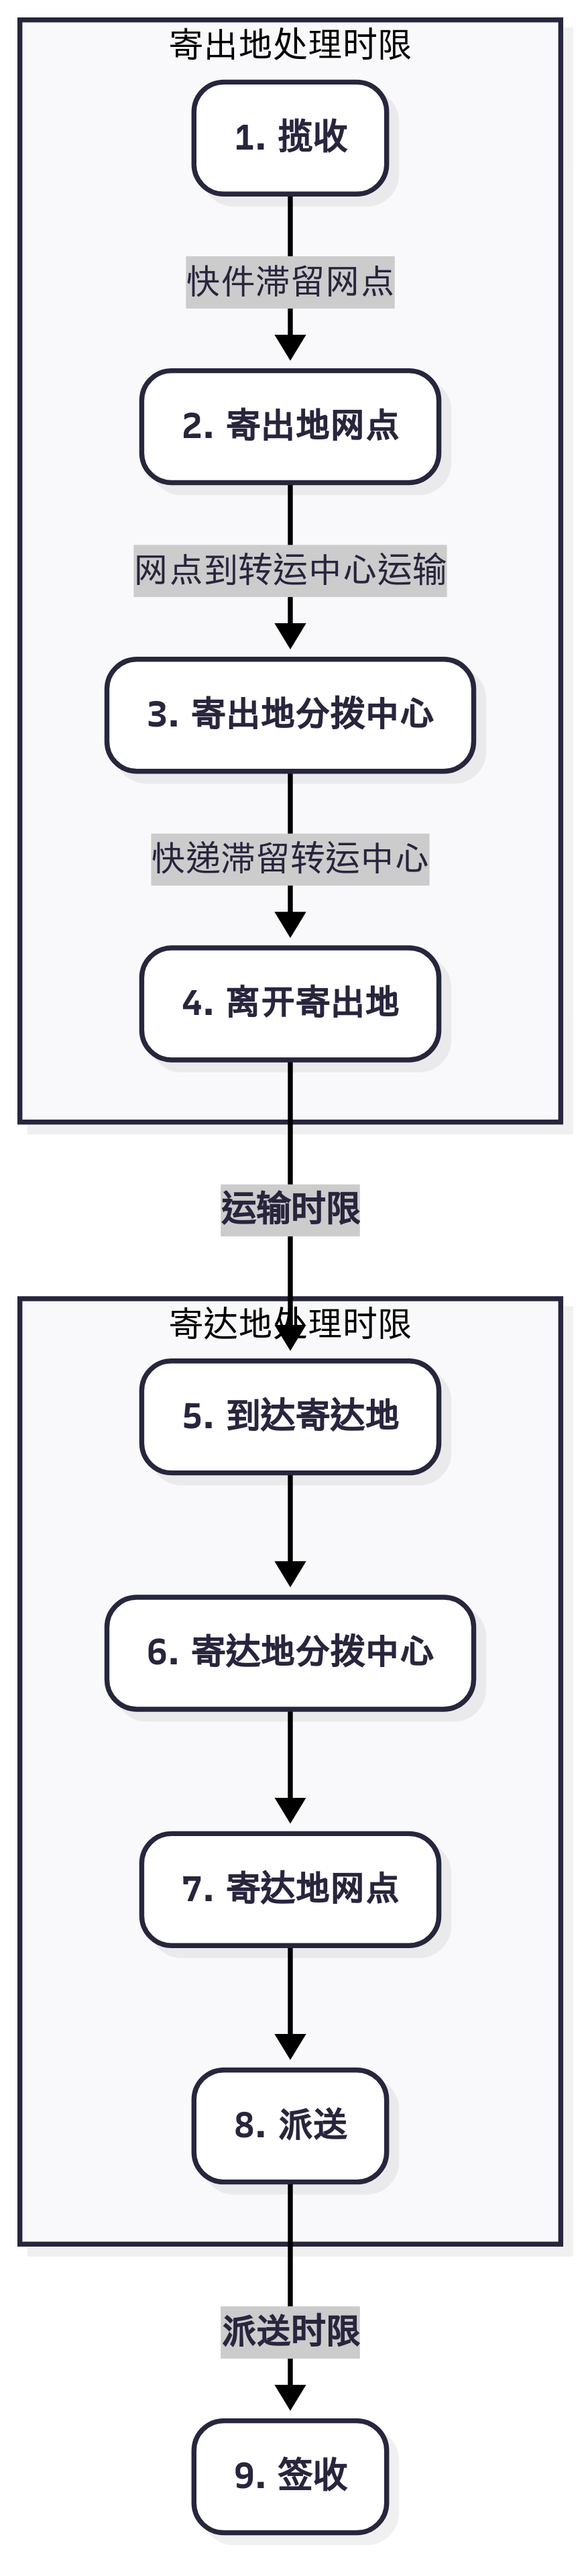
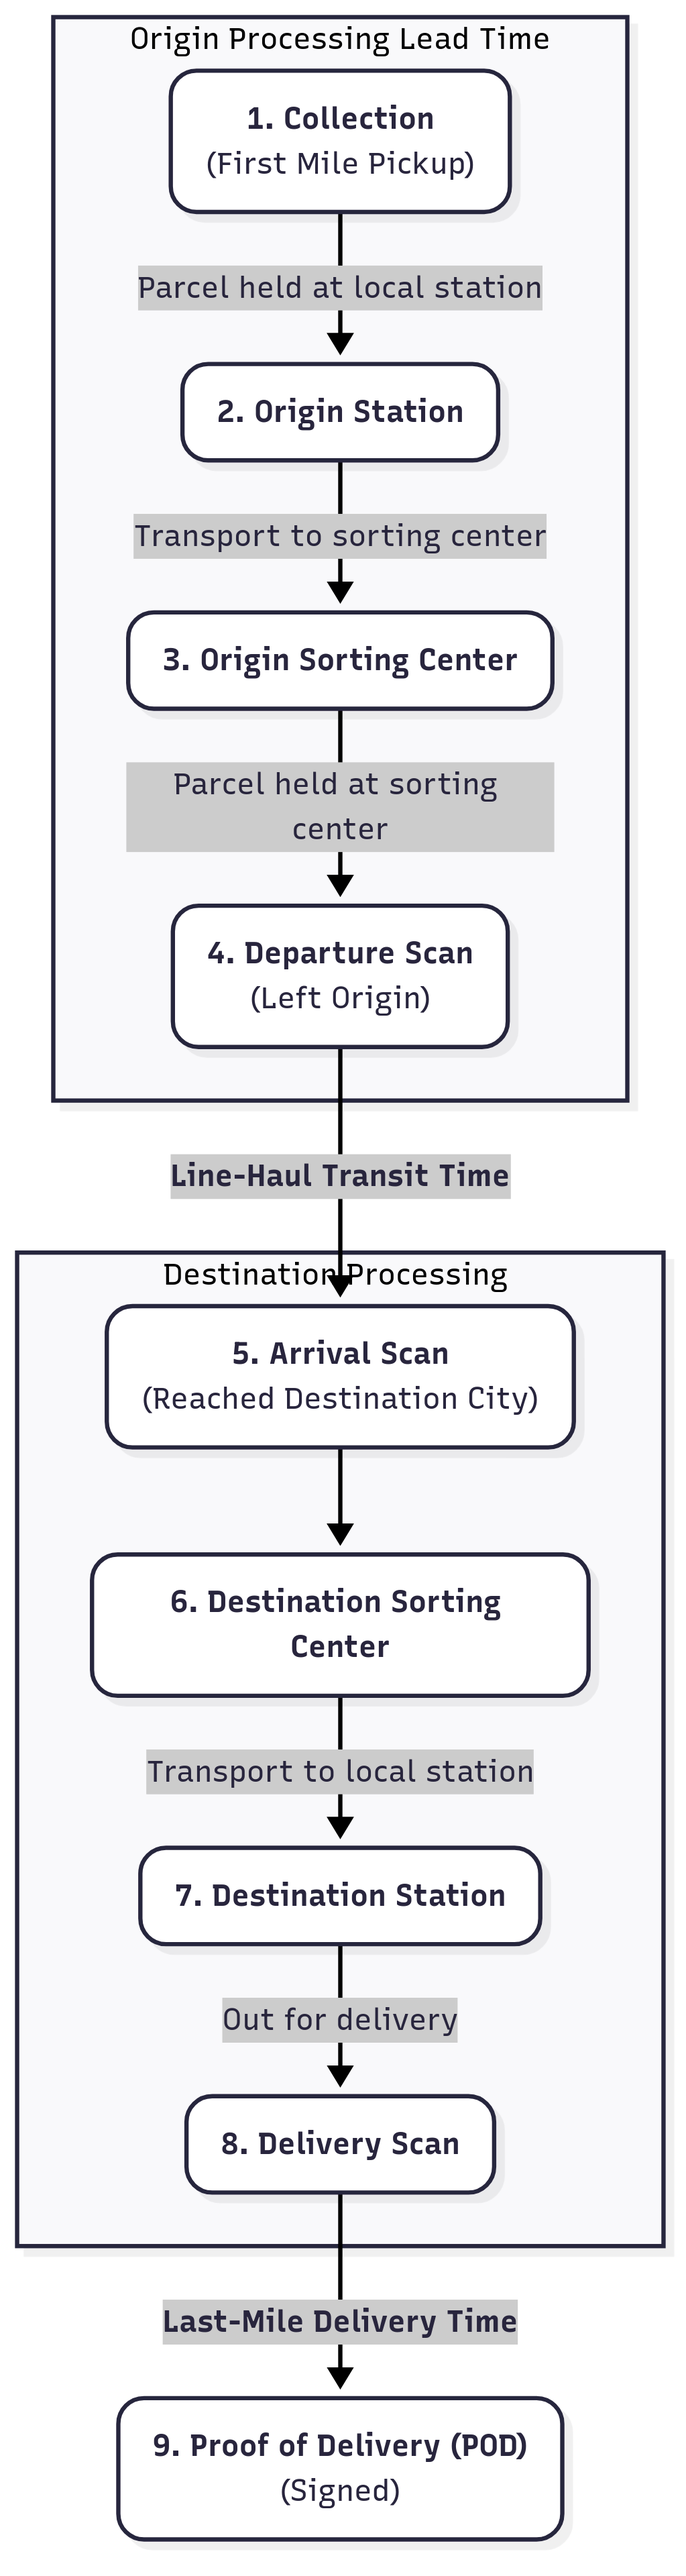
1.add description image in English and Chinese 2.update README.md

diff --git a/Description_Image/dataflow.md b/Description_Image/dataflow.md
@@ -4,29 +4,50 @@ config:
 ---
 graph TD
     %% =================================================================
-    %% 阶段一：核心数据准备
+    %% Stage 1: Core Data Preparation
     %% =================================================================
-    subgraph "阶段一：核心数据准备 (数据源 -> 核心中间数据)@zhb"
-        A["<b>安监数据</b><br><b style='color:grey'>(输入/安监数据)"] --> B("运行<b style='color:darkblue'>1_data_preprocess.ipynb Cell 2")
-        B --> C["<b>拆分后数据<br>（不含顺丰、中通）</b><br><b style='color:grey'>(temp/1_待上传猪猪云文件）"]
-        C -- "手动上传" --> D{"猪猪快递云网站"}
-        D -- "手动下载" --> E["<b>猪猪云输出数据<br>（不含顺丰、中通）</b><br> <b style='color:grey'>(放入temp/2_猪猪云下载数据"]
-        E --> F("运行<b style='color:darkblue'>1_data_preprocess.ipynb Cell 3")
-        F --> G["<b>合并数据<br>（不含顺丰、中通）</b><br><b style='color:grey'>（temp/3_猪猪云合并数据）"]
+    subgraph "Stage 1: Core Data Preparation (Raw Sources -> Intermediate Data) @zhb"
+        A["<b>Raw Monitoring Data</b><br><b style='color:grey'>(input/monitoring_data)"] --> B("Run <b style='color:darkblue'>1_data_preprocess.ipynb Cell 2")
+        B --> C["<b>Split Data<br>(Excludes SF, ZTO)</b><br><b style='color:grey'>(temp/1_to_be_uploaded）"]
+        C -- "Manual Upload" --> D{"Cloud Processing Service"}
+        D -- "Manual Download" --> E["<b>Processed Cloud Output<br>(Excludes SF, ZTO)</b><br> <b style='color:grey'>(place in temp/2_cloud_download)"]
+        E --> F("Run <b style='color:darkblue'>1_data_preprocess.ipynb Cell 3")
+        F --> G["<b>Merged Data<br>(Excludes SF, ZTO)</b><br><b style='color:grey'>(temp/3_cloud_merged)"]
 
     
-        M("运行<b style='color:darkblue'>1_data_preprocess.ipynb Cell 5 中转数据生成")
+        M("Run <b style='color:darkblue'>1_data_preprocess.ipynb Cell 5<br>Transit Data Generation")
         G --> M
-        M --> N["<b>中转数据<br>（不含顺丰、中通）</b><br><b style='color:grey'>（temp/5_中转数据）"]
+        M --> N["<b>Transit Data<br>(Excludes SF, ZTO)</b><br><b style='color:grey'>(temp/5_transit_data)"]
 
-        G -- "不含顺丰、中通" --> H{"运行<b style='color:darkblue'>1_data_preprocess.ipynb Cell 4.0-4.8 logistics生成"}
-        A -- "顺丰、中通" --> H
-        H --> I["<b>logistics数据</b><br><b style='color:grey'>（temp/4_logistics数据）"]
-        I --> K("运行<b style='color:darkblue'>1_data_preprocess.ipynb Cell 7: 核心数据计算层 <br>")
-        N -- "不含顺丰、中通" --> K
-        K --> L["<b style='color:darkred'>data_analyisi_result数据</b>"]
-        L --> O("运行<b style='color:darkblue'>2_intermediate_DataHub.ipynb Cell 4: Cell 4: 数据中台生成 <br>")
-        O --> P["<b style='color:darkred'>分析总报告.xlsx</b>"]
-        P --> Q["<b style='color:darkred'>邮政月报.xlsx、极兔月报.xlsx</b>"]
+        G -- "Excludes SF, ZTO" --> H{"Run <b style='color:darkblue'>1_data_preprocess.ipynb Cell 4.0-4.8<br>Logistics Data Generation"}
+        A -- "SF, ZTO only" --> H
+        H --> I["<b>Logistics Data</b><br><b style='color:grey'>(temp/4_logistics_data)"]
+        
+        I --> K("Run <b style='color:darkblue'>1_data_preprocess.ipynb Cell 7<br>Core Data Computation Layer")
+        N -- "Excludes SF, ZTO" --> K
+        K --> L["<b style='color:darkred'>`data_analysis_result` Outputs</b>"]
+        
+        L --> O("Run <b style='color:darkblue'>2_intermediate_DataHub.ipynb Cell 4<br>Data Hub Generation")
+        O --> P["<b style='color:darkred'>Master_Analysis_Report.xlsx</b>"]
+        
+        L --> Q["<b style='color:darkgreen'>Postal_Monthly_Report.xlsx, J&T_Monthly_Report.xlsx</b>"]
+        L --> R["<b style='color:darkgreen'>ZTO_Monthly_Report.xls</b>"]
+        P --> R
+        
+        L --> S["<b style='color:darkgreen'>1_Summary_Data</b>"]
+        L --> T["<b style='color:darkgreen'>2_ZTO_Report_Tables</b>"]
+        L --> U["<b style='color:darkgreen'>2_ZTO_Report_Tables_Quarterly</b>"]
+        L --> V["<b style='color:darkgreen'>3_Postal_Report_Tables</b>"]
+        L --> W["<b style='color:darkgreen'>4_Report_Images</b>"]
+        L --> X["<b style='color:darkgreen'>5_Tongda_Series_Data</b>"]
+        L --> Y["<b style='color:darkgreen'>6_Postal_Report_Tables_Quarterly</b>"]
+        L --> Z["<b style='color:darkgreen'>7_Report_Images_Quarterly</b>"]
+        
+        P --> T
+        P --> U
+        P --> V
+        P --> W
+        P --> X
+        P --> Y
+        P --> Z
     end
-

diff --git a/Description_Image/dataflow_cn.md b/Description_Image/dataflow_cn.md
@@ -1,0 +1,50 @@
+---
+config:
+  theme: redux
+---
+graph TD
+    %% =================================================================
+    %% 阶段一：核心数据准备
+    %% =================================================================
+    subgraph "阶段一：核心数据准备 (数据源 -> 核心中间数据)@zhb"
+        A["<b>安监数据</b><br><b style='color:grey'>(输入/安监数据)"] --> B("运行<b style='color:darkblue'>1_data_preprocess.ipynb Cell 2")
+        B --> C["<b>拆分后数据<br>（不含顺丰、中通）</b><br><b style='color:grey'>(temp/1_待上传猪猪云文件）"]
+        C -- "手动上传" --> D{"猪猪快递云网站"}
+        D -- "手动下载" --> E["<b>猪猪云输出数据<br>（不含顺丰、中通）</b><br> <b style='color:grey'>(放入temp/2_猪猪云下载数据"]
+        E --> F("运行<b style='color:darkblue'>1_data_preprocess.ipynb Cell 3")
+        F --> G["<b>合并数据<br>（不含顺丰、中通）</b><br><b style='color:grey'>（temp/3_猪猪云合并数据）"]
+
+    
+        M("运行<b style='color:darkblue'>1_data_preprocess.ipynb Cell 5 中转数据生成")
+        G --> M
+        M --> N["<b>中转数据<br>（不含顺丰、中通）</b><br><b style='color:grey'>（temp/5_中转数据）"]
+
+        G -- "不含顺丰、中通" --> H{"运行<b style='color:darkblue'>1_data_preprocess.ipynb Cell 4.0-4.8 各公司logistics数据生成"}
+        A -- "顺丰、中通" --> H
+        H --> I["<b>logistics数据</b><br><b style='color:grey'>（temp/4_logistics数据）"]
+        I --> K("运行<b style='color:darkblue'>1_data_preprocess.ipynb Cell 7: 核心数据计算层 <br>")
+        N -- "不含顺丰、中通" --> K
+        K --> L["<b style='color:darkred'>data_analyisi_result数据</b>"]
+        L --> O("运行<b style='color:darkblue'>2_intermediate_DataHub.ipynb Cell 4: 数据中台生成 <br>")
+        O --> P["<b style='color:darkred'>分析总报告.xlsx</b>"]
+        L --> Q["<b style='color:darkgreen'>邮政月报.xlsx、极兔月报.xlsx</b>"]
+        L --> R["<b style='color:darkgreen'>中通月报.xls</b>"]
+        P --> R
+        L --> S["<b style='color:darkgreen'>1_汇总数据</b>"]
+        L --> T["<b style='color:darkgreen'>2_中通报告表格</b>"]
+        L --> U["<b style='color:darkgreen'>2_中通报告表格_季度</b>"]
+        L --> V["<b style='color:darkgreen'>3_邮政报告表格</b>"]
+        L --> W["<b style='color:darkgreen'>4_报告图片</b>"]
+        L --> X["<b style='color:darkgreen'>5_通达兔数据</b>"]
+        L --> Y["<b style='color:darkgreen'>6_邮政报告表格_季度</b>"]
+        L --> Z["<b style='color:darkgreen'>7_报告图片_季度</b>"]
+        P --> T["<b style='color:darkgreen'>2_中通报告表格</b>"]
+        P --> U["<b style='color:darkgreen'>2_中通报告表格_季度</b>"]
+        P --> V["<b style='color:darkgreen'>3_邮政报告表格</b>"]
+        P --> W["<b style='color:darkgreen'>4_报告图片</b>"]
+        P --> X["<b style='color:darkgreen'>5_通达兔数据</b>"]
+        P --> Y["<b style='color:darkgreen'>6_邮政报告表格_季度</b>"]
+        P --> Z["<b style='color:darkgreen'>7_报告图片_季度</b>"]
+
+    end
+

diff --git a/README.md b/README.md
@@ -6,7 +6,7 @@ An automated ETL pipeline designed to ingest, process, and model raw operational
 
 ## 🌟 Project Overview & Motivation
 
-During my internship at the **Development and Research Center of the State Post Bureau of China**, I was responsible for analyzing the monthly and quarterly performance reports from over 10 leading logistics firms. This process was initially manual, time-consuming, and prone to human error.
+During my internship at the **Development and Research Center of the State Post Bureau**, I was responsible for analyzing the monthly and quarterly performance reports from over 10 leading logistics firms. This process was initially manual, time-consuming, and prone to human error.
 
 To solve this, I independently designed and developed this data pipeline. Its core mission is to **automate the entire workflow**, from raw, unstructured report ingestion to the generation of clean, structured, and analysis-ready datasets. This project successfully transformed a multi-day manual task into an efficient, reliable, and scalable automated process.
 
